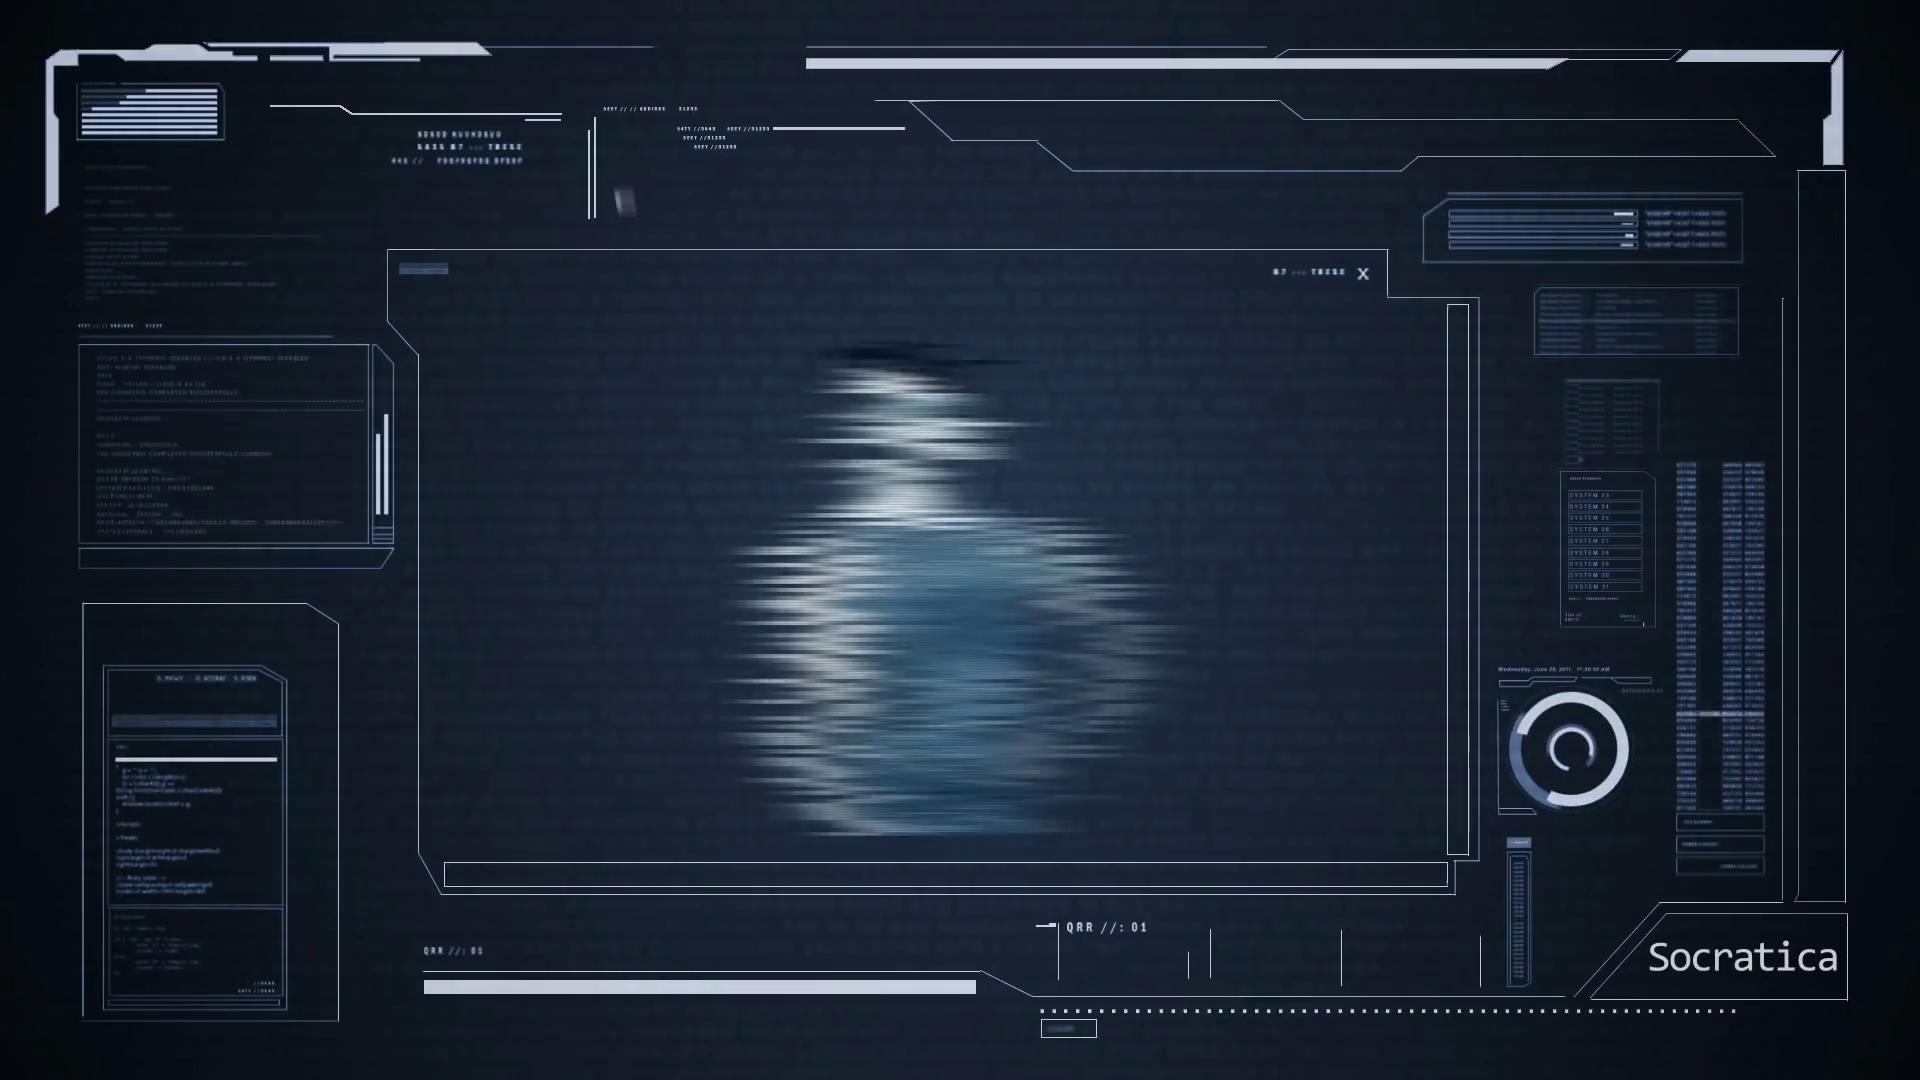
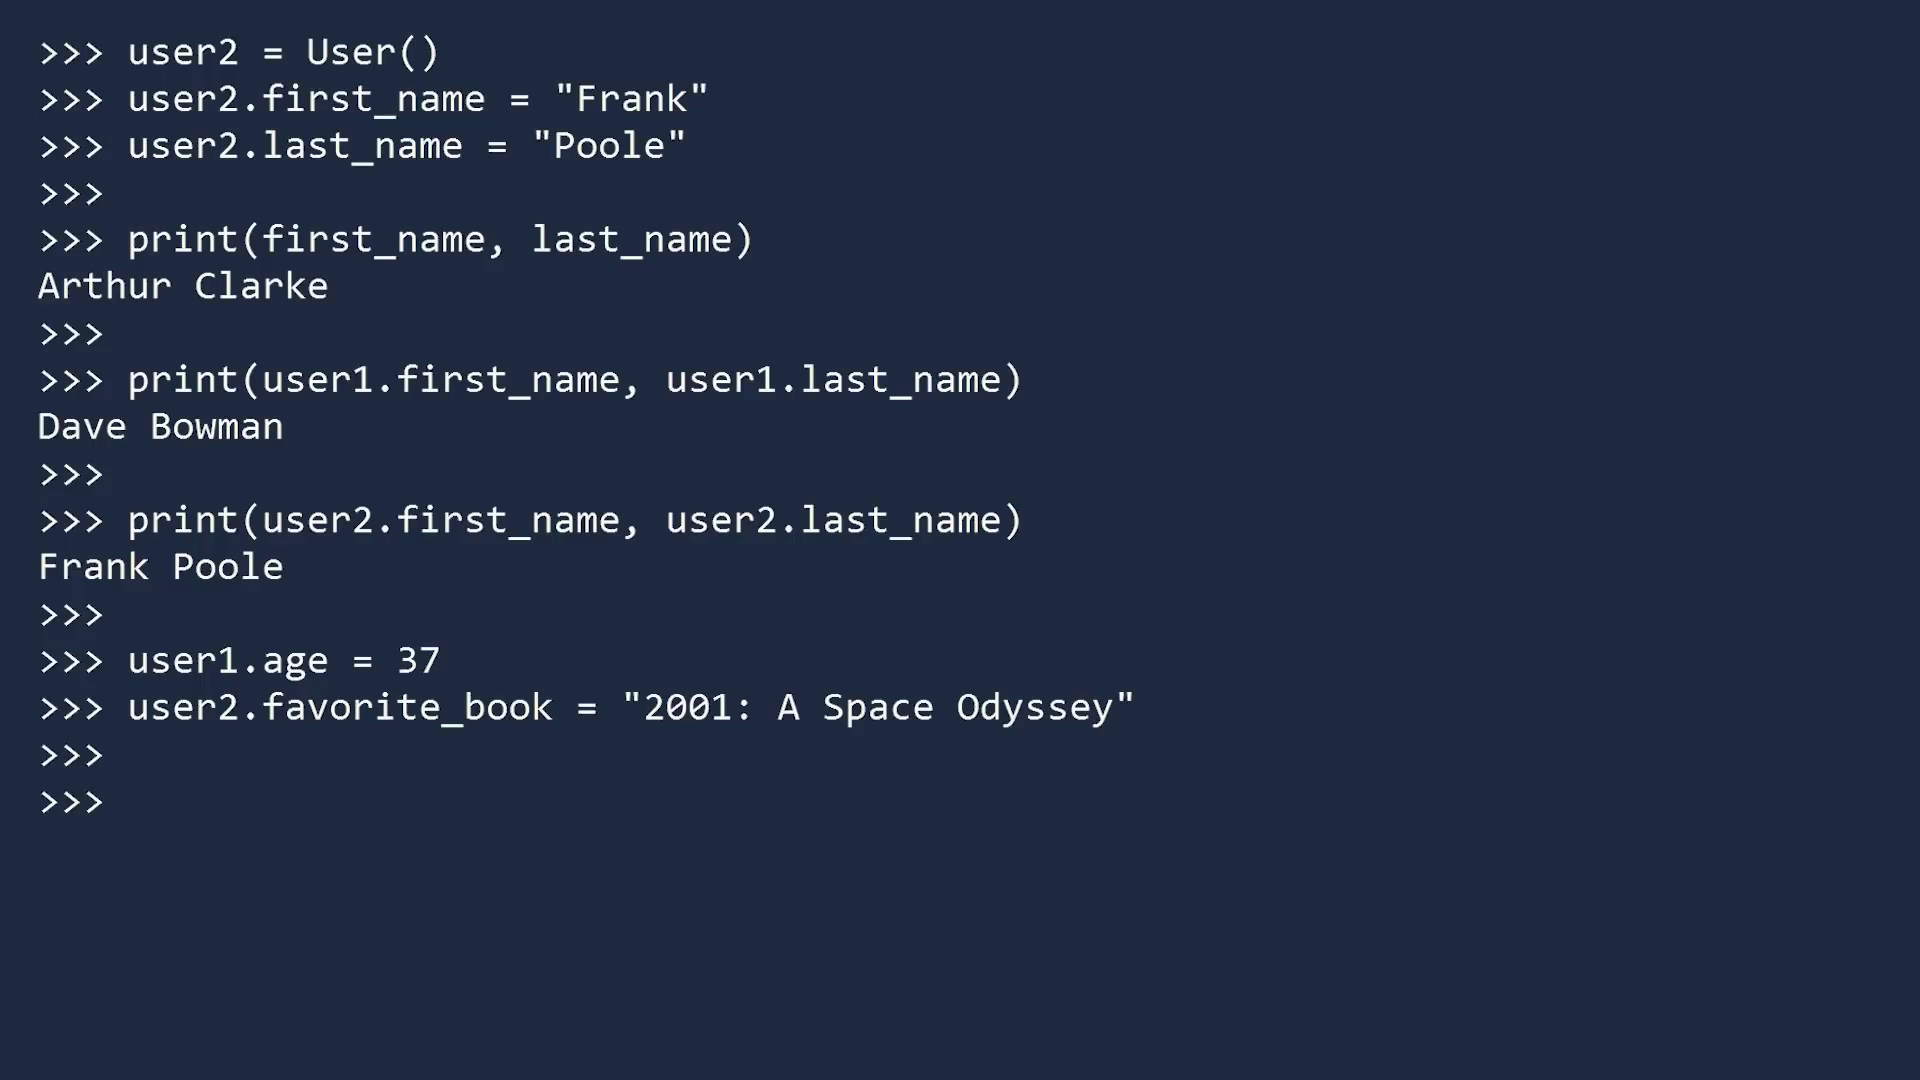
feat: update methods in simple_api

diff --git a/preliminary/library_basics.py b/preliminary/library_basics.py
@@ -46,7 +46,10 @@ class CodingVideo:
         ----------
         https://docs.opencv.org/3.4/d4/d15/group__videoio__flags__base.html#gaeb8dd9c89c10a5c63c139bf7c4f5704d
         """
-        return f"\nVideo metadata:\nFrames per second: {self.fps}\nFrame count: {self.frame_count}\nDuration: {self.duration} (s)"
+        return (f"\nVideo metadata:\n"
+                f"Frames per second: {self.fps:.2f}\n"
+                f"Frame count: {self.frame_count}\n"
+                f"Duration: {self.duration:.2f} (seconds)")
 
     def get_frame_number_at_time(self, seconds: int) -> int:
         """Given a time in seconds, returns the value of the nearest frame"""
@@ -84,29 +87,32 @@ class CodingVideo:
             raise ValueError("Failed to encode frame")
         return buf.tobytes()
 
-    def save_as_image(self, seconds: int, output_path: Path | str = 'output.png') -> None:
+    def save_as_image(self, seconds: int, output_path: Path | str = 'resources/output.png') -> str:
       """Saves the given frame as a png image
         Requires a OpenCV imgcodecs library to convert ndarray to png
         https://docs.opencv.org/3.4/d4/da8/group__imgcodecs.html
       """
       if seconds < 0:
           raise ValueError("Frame must be in positive seconds.")
-      img = self.get_frame_number_at_time(seconds)
-      self.capture.set(cv2.CAP_PROP_POS_FRAMES, img)
-      _, frame = self.capture.read()
-      cv2.imwrite("./resources/output.png", frame)
+      frame_number = self.get_frame_number_at_time(seconds)
+      self.capture.set(cv2.CAP_PROP_POS_FRAMES, frame_number)
+      ok, frame = self.capture.read()
+      if not ok:
+          raise ValueError("Could not read frame")
 
-    def read_text_from_image(self, img: str) -> None:
-        print()
-        print(pytesseract.image_to_string(img))
+      cv2.imwrite(output_path, frame)
+      return str(output_path)
+
+    def read_text_from_image(self, path: str) -> str:
+        return pytesseract.image_to_string(path)
 
 def test():
     """Try out your class here"""
     oop = CodingVideo("resources/oop.mp4")
     # print(oop)
     # print(oop.get_frame_rgb_array(1))
-    oop.save_as_image(223)
-    oop.read_text_from_image("./resources/output.png")
+    path = oop.save_as_image(223)
+    print(oop.read_text_from_image(path))
 
 if __name__ == '__main__':
     test()

diff --git a/preliminary/simple_api.py b/preliminary/simple_api.py
@@ -4,11 +4,14 @@ Drive the API to complete "interprocess communication"
 
 Requirements
 """
-
+import pytesseract
 from fastapi import FastAPI, HTTPException
 from fastapi import Response
 from pydantic import BaseModel
 from pathlib import Path
+
+from starlette.responses import PlainTextResponse
+
 from library_basics import CodingVideo
 
 
@@ -86,3 +89,15 @@ def video_frame(vid: str, t: float):
       video.capture.release()
 
 # TODO: add enpoint to get ocr e.g. /video/{vid}/frame/{t}/ocr
+@app.get("/video/{vid}/frame/{t}/ocr", response_class=Response)
+def video_frame_ocr(vid: str, t: int):
+    video = _open_vid_or_404(vid)
+
+    frame = video.get_frame_number_at_time(t)
+    rgb = video.get_frame_rgb_array(frame)
+
+    return {
+        "video": vid,
+        "timestamp": t,
+        "text": pytesseract.image_to_string(rgb, lang="eng")
+    }

diff --git a/preliminary/performance_tasks.md b/preliminary/performance_tasks.md
@@ -103,9 +103,9 @@ FastAPI will allow us to enable communication with our OCR service from other pr
 4. Run the following curl command (may require git bash on Windows):
 `curl 127.0.0.1:8000/video`
 5. Confirm that a list of videos and URLs is returned by copying the output below:
-> Description
+> {"count":1,"videos":[{"id":"demo","path":"..\\resources\\oop.mp4","_links":{"self":"/video/demo","frame_example":"/video/demo/frame/1.0"}}]}
 6. What are the names of the two processes that just communicated?
->
+> The FastAPI server communicated with CLI client through curl.
 6. Modify the simple_api.py so that it works correctly with your implementation and complete any TODO markers
 7. Demonstrate the use of at least two other end points below:
 >
